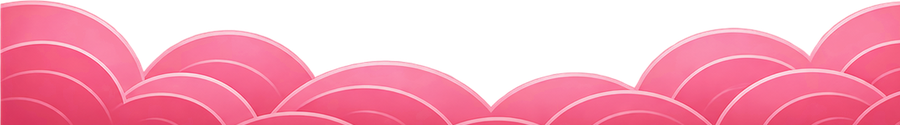
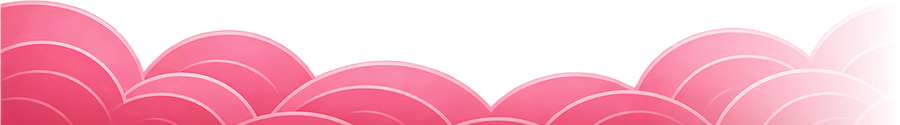
Bộ giao diện sen: khung tre + chóp đỏ hoa sen + nút đóng dây tua + hoa sen góc + sóng hồng, tab/chip đỏ, bảng chừa lề
Claude-Session: https://claude.ai/code/session_015r7QjvgWpavV7UHFjkKbAg

Changed region(s): [[0.7467, 0.0, 1.0, 1.0]]

diff --git a/src/tools/sen/lam_khung.py b/src/tools/sen/lam_khung.py
@@ -67,9 +67,12 @@ def put(name, fname, css_w, anchor, cx, cy, cut=None):
 im = crop_bb(load('04_chop_do_dinh.png')); bar_c = (1107 - 797) / im.height
 put('dinh', '04_chop_do_dinh.png', 132, [0.5, 0.0], 0.5, bar_c)
 M['dinh']['dy'] = T / 2; M['dinh']['fw'] = [0.58, 160, 230]   # ảnh mẫu: dải đỏ 640/1112 = 58% bề ngang
-im = crop_bb(load('05_chop_do_day.png')); bar_c = (1069 - 794) / im.height
-put('day', '05_chop_do_day.png', 112, [0.5, 1.0], 0.5, bar_c)
-M['day']['dy'] = -T / 2; M['day']['fw'] = [0.30, 90, 120]   # ảnh mẫu: chóp đáy (dải + chóp) ~ 30% bề ngang
+def mid(im):   # chóp đáy: chỉ lấy chóp giữa + khúc vàng ngắn hai bên (ảnh mẫu không có dải đỏ dài dưới đáy)
+    im = crop_bb(im); w = im.width
+    return im.crop((int(w * 0.365), 0, int(w * 0.635), im.height))
+im = mid(load('05_chop_do_day.png')); bar_c = (1069 - 794) / im.height
+put('day', '05_chop_do_day.png', 112, [0.5, 1.0], 0.5, bar_c, mid)
+M['day']['dy'] = -T / 2; M['day']['fw'] = [0.095, 30, 34]   # ảnh mẫu: chóp đáy ~ 30 css
 # hoa sen góc: tràn ra ngoài khung một phần
 put('hoa_tt', '06_hoa_sen_goc_tren_trai.png', 86, [0.0, 0.0], 0.14, 0.40)   # ảnh mẫu: lòi trái 12, lên 32 css
 put('hoa_dp', '07_hoa_sen_goc_duoi_phai.png', 112, [1.0, 1.0], 0.87, 0.64)   # ảnh mẫu: phần lớn nằm trong góc dưới phải
@@ -93,6 +96,10 @@ put('tua', '09_day_tua_do.png', 19, [1.0, 0.0], 0.5, 0.0)
 M['tua']['dx'] = -8; M['tua']['dy'] = 12
 # sóng hồng: lớp giấy, đáy trái (lật ngang cho đáy phải)
 w = load('10_song_hong_day_giay.png'); w = crop_bb(w)
+a = np.array(w).astype(np.float32)   # mép trong (phải) mờ dần, không cắt ngang
+ramp = np.clip((w.width - np.arange(w.width)) / (w.width * 0.28), 0, 1)
+a[:, :, 3] *= ramp[None, :]
+w = Image.fromarray(a.astype(np.uint8), 'RGBA')
 save(w, 'song', 150, 150 * w.height / w.width)
 M['song'] = [150, 150 * w.height / w.width]
 json.dump(M, open(os.path.join(OUT, 'khung.json'), 'w'), indent=1)
